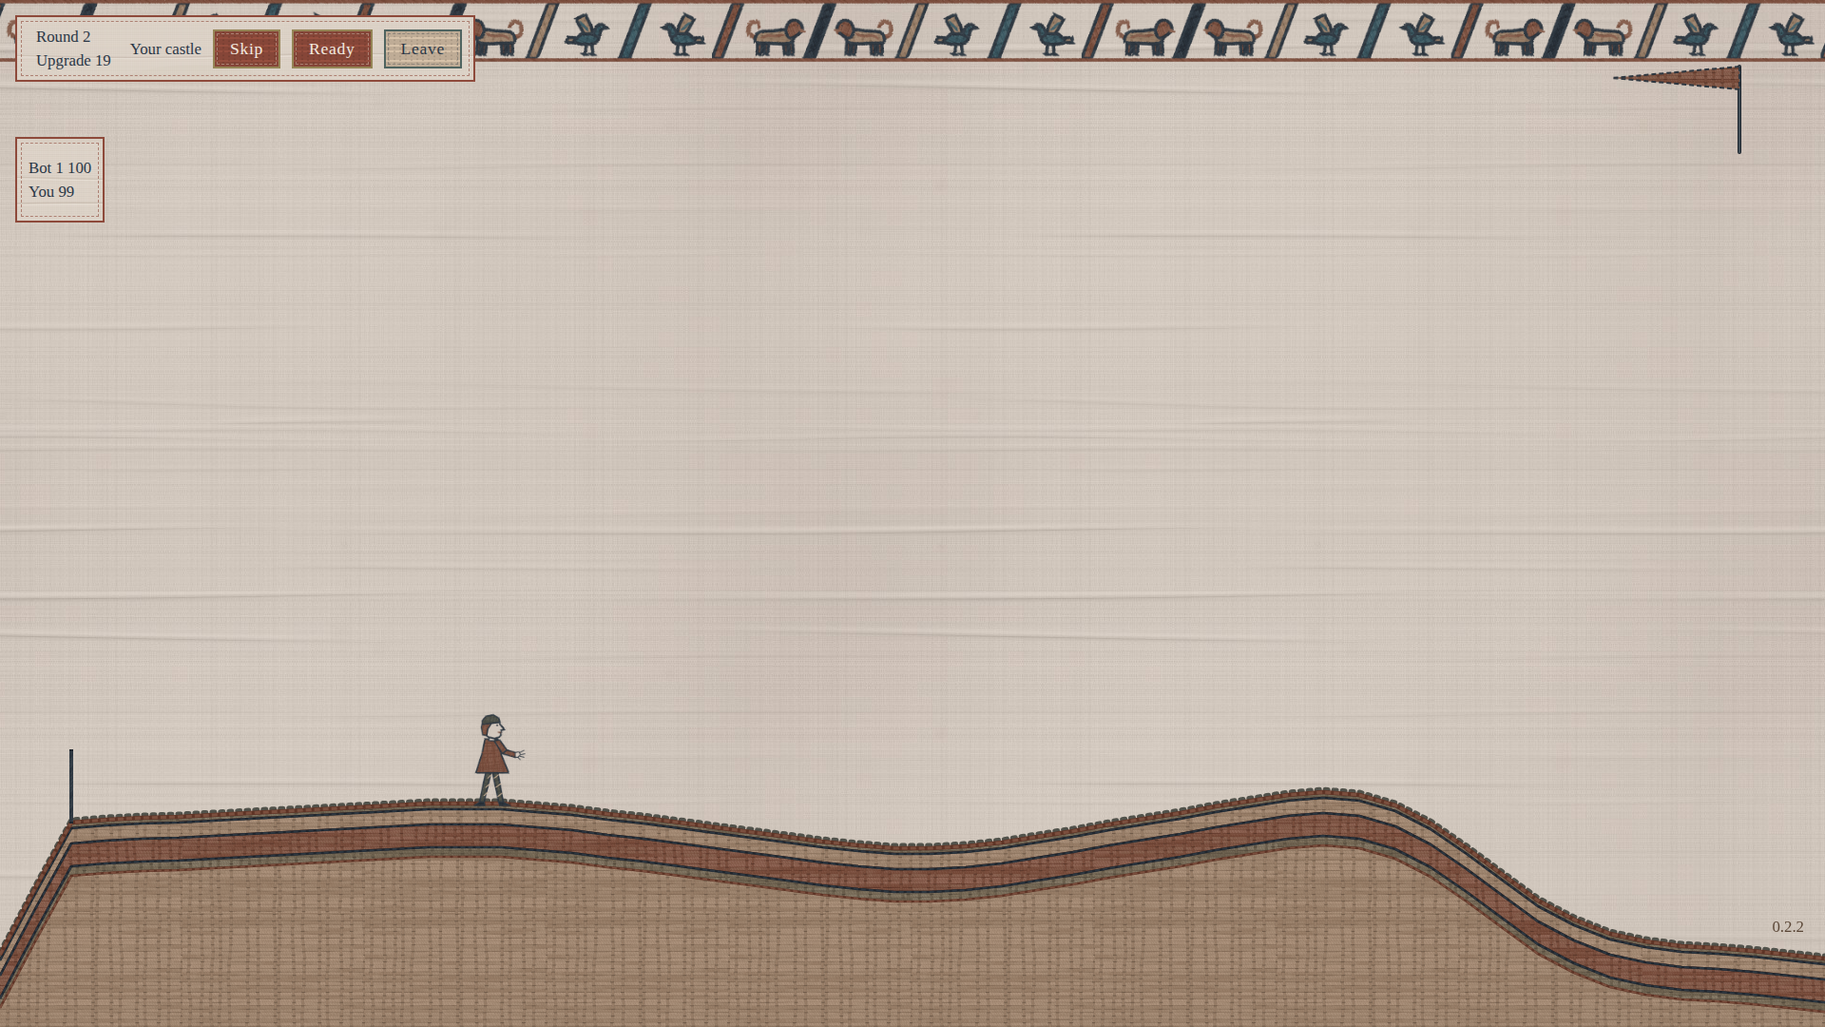
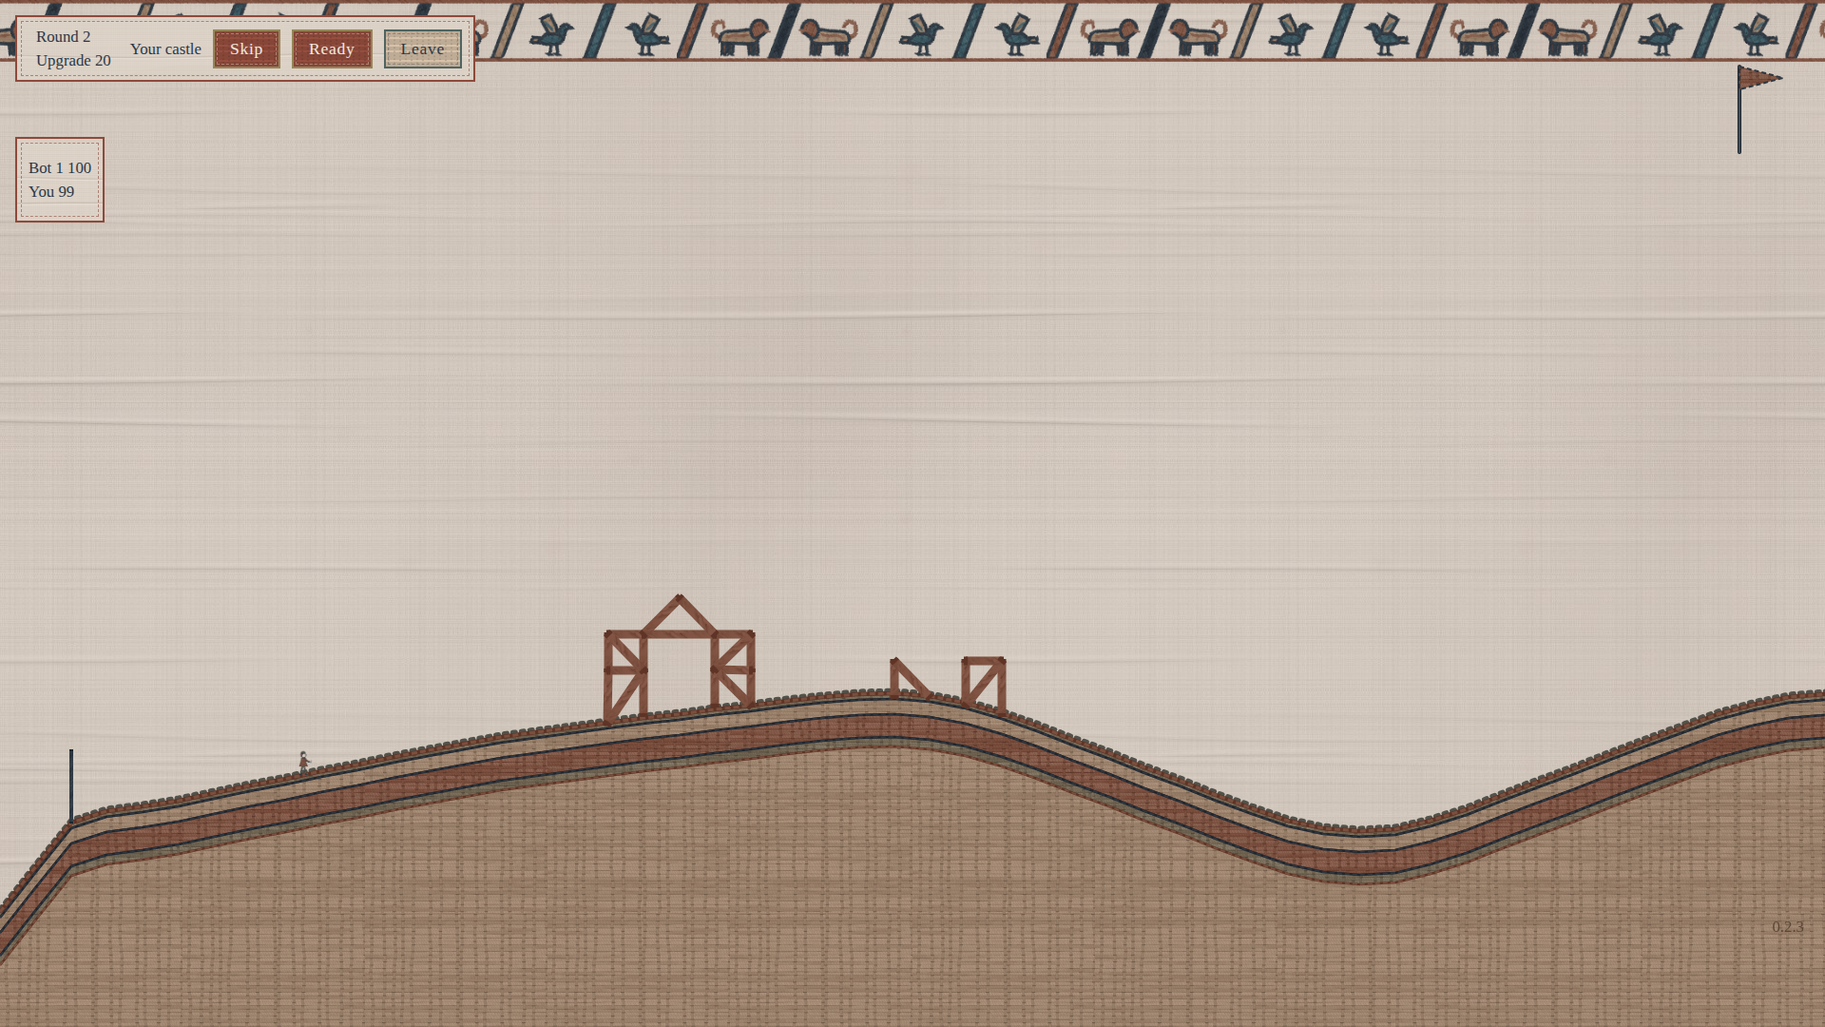
Royal figures drawn at world scale, fitting under cover (R1.2400-R1.2402)

Changed region(s): [[0.0, 0.5806, 1.0, 1.0], [0.2188, 0.0, 1.0, 0.0917], [0.0, 0.0, 0.1875, 0.0611]]

diff --git a/web/field-draw.js b/web/field-draw.js
@@ -130,7 +130,7 @@ function royals(g, f) {
     }
     const rank = K.costumes[r.rank] ? r.rank : "squire";
     const name = "fig-" + rank + (r.dead ? "-dead" : "");
-    const k = most(r.r * G.figure_tall_r, G.figure_min_px) / sprites[name].tall;
+    const k = r.tall / sprites[name].tall;
     if (r.dead) {
       // fallen: turned a quarter onto the floor
       g.save();
@@ -141,7 +141,7 @@ function royals(g, f) {
       g.restore();
       return;
     }
-    place(g, name, r.x, r.y + r.r * G.figure_foot_r, k, face);
+    place(g, name, r.x, r.y + r.r, k, face);
   });
 }
 

diff --git a/crates/core/src/ai/tests.rs b/crates/core/src/ai/tests.rs
@@ -570,3 +570,91 @@ fn ai_botplan_bot_waits_for_each_planned_shot() {
     }
     assert!(seen > 0);
 }
+
+/// Each royal of `p`: the head room from its feet (the body's bottom) to
+/// the underside of the lowest level beam over it, and the side room from
+/// its middle to the nearest upright beside it within that height.
+fn figure_room(play: &Play, p: u8) -> Vec<(Fx, Fx)> {
+    use crate::play::castle::BodyOwner;
+    use crate::play::tune::FIGURE_TALL;
+    let pl = &play.rules.players[p as usize];
+    let cw = play.castles[p as usize].world(pl, true);
+    let w = &cw.world;
+    let half = |s: &crate::physics::world::Segment| TUNE.material(s.material).thickness / 2;
+    cw.bodies
+        .iter()
+        .enumerate()
+        .filter(|(_, o)| matches!(o, BodyOwner::Royal(_)))
+        .map(|(i, _)| {
+            let b = &w.bodies[i];
+            let foot = b.pos.y - b.radius;
+            let ends = |s: &crate::physics::world::Segment| (w.nodes[s.a].pos, w.nodes[s.b].pos);
+            let head = w
+                .segments
+                .iter()
+                .filter(|s| !s.broken)
+                .filter_map(|s| {
+                    let (a, c) = ends(s);
+                    (a.y == c.y && a.x.min(c.x) < b.pos.x && b.pos.x < a.x.max(c.x) && a.y > b.pos.y)
+                        .then(|| a.y - half(s) - foot)
+                })
+                .min()
+                .unwrap_or(Fx::from_int(1_000));
+            let side = w
+                .segments
+                .iter()
+                .filter(|s| !s.broken)
+                .filter_map(|s| {
+                    let (a, c) = ends(s);
+                    (a.x == c.x && a.y.max(c.y) > foot && a.y.min(c.y) < foot + FIGURE_TALL)
+                        .then(|| (a.x - b.pos.x).abs() - half(s))
+                })
+                .min()
+                .unwrap_or(Fx::from_int(1_000));
+            (head, side)
+        })
+        .collect()
+}
+
+#[test]
+fn ai_bot_royal_figures_fit_under_their_cover() {
+    use super::build::bot_turn;
+    use crate::game::flow::Phase;
+    use crate::play::tune::{FIGURE_TALL, FIGURE_WIDE, HEAD_ROOM};
+    // the drawn figure fits the head room the cover rules allow (R1.2400)
+    assert!(FIGURE_TALL <= HEAD_ROOM);
+    for seed in 1u64..=3 {
+        let mut play = match_with(vec![Seat::Human, Seat::Bot(Difficulty::Normal)], seed);
+        let mut last = (0, Phase::Lobby);
+        let mut checked = 0;
+        let mut n = 0;
+        while play.rules.round <= 4 && play.rules.phase != Phase::Results {
+            let now = (play.rules.round, play.rules.phase);
+            if now != last && now.1 == Phase::Build {
+                for input in bot_turn(&play, 1) {
+                    let _ = play.apply(1, input);
+                }
+                for (head, side) in figure_room(&play, 1) {
+                    assert!(
+                        head >= FIGURE_TALL,
+                        "seed {seed} round {}: head room {head:?}",
+                        now.0
+                    );
+                    assert!(
+                        side + side >= FIGURE_WIDE,
+                        "seed {seed} round {}: side room {side:?}",
+                        now.0
+                    );
+                    checked += 1;
+                }
+            }
+            last = now;
+            let _ = play.apply(0, Input::Ready);
+            let _ = play.apply(1, Input::Ready);
+            play.tick();
+            n += 1;
+            assert!(n < 100_000);
+        }
+        assert!(checked >= 4, "seed {seed}: {checked} royals checked");
+    }
+}

diff --git a/crates/core/src/play/tune.rs b/crates/core/src/play/tune.rs
@@ -7,6 +7,20 @@ use crate::physics::Fx;
 pub const ROYAL_RADIUS: Fx = Fx::ratio(1, 4);
 pub const BUILDING_RADIUS: Fx = Fx::ratio(1, 2);
 
+/// Head room under cover (R1.2400): one floor height (a cell, the bots'
+/// `ai::tune::FLOOR_UNITS`) less half the thickest beam (stone) below the
+/// royal's feet and half above its head.
+pub const HEAD_ROOM: Fx = Fx::ratio(3, 4);
+/// A royal's figure as drawn, in cells: its feet on the bottom of the body
+/// circle, centered on it, at most this tall and this wide (the baked
+/// figures reach about 0.6 of their height with an arm out), so it stands
+/// under any floor above it (R1.2400).
+pub const FIGURE_TALL: Fx = Fx::ratio(11, 16);
+pub const FIGURE_WIDE: Fx = Fx::ratio(1, 2);
+/// The least a figure is drawn, in pixels, when the view is zoomed far out
+/// (the corner inset); never more than the head room at that zoom.
+pub const FIGURE_MIN_PX: i32 = 12;
+
 /// A point stands on a floor when it is within this of the floor's top,
 /// and on the ground within this of the ground (half a grid step).
 pub const STAND_TOLERANCE: Fx = Fx::ratio(1, 8);

diff --git a/crates/core/src/app/field.rs b/crates/core/src/app/field.rs
@@ -66,6 +66,14 @@ impl Camera {
         [x as i32, self.h - y as i32]
     }
 
+    /// A royal figure's drawn height: world scale, or at least
+    /// `FIGURE_MIN_PX` when zoomed far out, never above the head room.
+    pub fn figure_tall(&self) -> i32 {
+        use crate::play::tune::{FIGURE_MIN_PX, FIGURE_TALL, HEAD_ROOM};
+        self.len(FIGURE_TALL, 0)
+            .max(FIGURE_MIN_PX.min(self.len(HEAD_ROOM, 0)))
+    }
+
     /// A length in pixels, at least `min`.
     pub fn len(&self, l: Fx, min: i32) -> i32 {
         ((l * self.ppu).floor_int() as i32).max(min)
@@ -223,6 +231,9 @@ pub struct Figure {
     pub x: i32,
     pub y: i32,
     pub r: i32,
+    /// the figure's drawn height in pixels, feet on the body's bottom
+    /// (`play::tune::FIGURE_TALL`, R1.2400)
+    pub tall: i32,
     /// "squire", "knight", ... for the renderer's look
     pub rank: &'static str,
     #[serde(skip_serializing_if = "is_false")]

diff --git a/crates/core/src/app/sandbox.rs b/crates/core/src/app/sandbox.rs
@@ -944,6 +944,7 @@ impl Sandbox {
                     x: p[0],
                     y: p[1],
                     r: cam.len(b.radius, 3),
+                    tall: cam.figure_tall(),
                     rank: rank_name(k),
                     dead: !b.alive,
                 }

diff --git a/crates/core/src/app/arena.rs b/crates/core/src/app/arena.rs
@@ -1219,6 +1219,7 @@ impl Arena {
                     x: p[0],
                     y: p[1],
                     r: cam.len(b.radius, 3),
+                    tall: cam.figure_tall(),
                     rank,
                     dead: !b.alive,
                 }

diff --git a/SECOND-ORDER.md b/SECOND-ORDER.md
@@ -155,7 +155,7 @@ One row per assumption, surprise or open item. **Kind** is *divergence* (what wa
 | R1.1308 | divergence | Sandbox power | The sandbox's `POWER` 7 is now `sandbox::power()`, a level-1 match's power (`launch_power(LEVELS[0].shot_power_pct)`), so it throws like a real match | | `app/sandbox.rs`, test `sandbox_power_reaches_the_whole_level_one_plot` | done |
 | R1.1400 | divergence | Stitch helpers in tools | tools/look/stitch.js (first web/stitch.js, see R1.1406) is the production copy of notes/look/stitch/stitch.js, rewritten so every number comes from data/stitch.json (the page's no-numbers rule). The border band and stitched lettering stayed in the notes copy only; scene-v3.html uses the old copy for those two | Made in the tapestry renderer pass | `web/stitch.js`, `data/stitch.json` | done |
 | R1.1401 | divergence | Figures and huts as data | Royal figures (by rank) and producer huts are part lists in data/stitch.json, drawn by `parts()` in web/stitch.js, shared by the game and the v3 render. The frame's existing `rank` field was enough; no core change | Made in the tapestry renderer pass | `data/stitch.json` body, hut | done |
-| R1.1402 | divergence | Royals drawn larger than their body | A figure is 5 radii tall (at least 46 px) with its feet 1.25 radii below the body's center, so it reads in play; hits still use the core's circle | Made in the tapestry renderer pass | `data/stitch.json` game.figure_* | open |
+| R1.1402 | divergence | Royals drawn larger than their body | A figure is 5 radii tall (at least 46 px) with its feet 1.25 radii below the body's center, so it reads in play; hits still use the core's circle | Made in the tapestry renderer pass | `data/stitch.json` game.figure_* (replaced by R1.2400) | done |
 | R1.1403 | finding | First-frame hitch | Stitching every texture costs about 270 ms on the first frame of a view (and again when the zoom changes the size buckets); warm frames take 1-7 ms. Pre-warming the cache during the countdown would hide it | Made in the tapestry renderer pass | MEASUREMENTS.md | open |
 | R1.1404 | divergence | Trebuchet arm over the ground | The arm used to dip behind the ground band; the terrain is now a cached background layer, so the arm draws over it | Made in the tapestry renderer pass | `web/field-draw.js` | open |
 | R1.1405 | finding | Sky stays put in a moving view | The linen is cached at canvas size and does not scroll with the siege camera; terrain does | Made in the tapestry renderer pass | `web/field-draw.js` | open |
@@ -200,7 +200,7 @@ One row per assumption, surprise or open item. **Kind** is *divergence* (what wa
 | R1.1603 | finding | The page drew an A-frame, a stick arm and a weight bead | The core's `Engine` (app/field.rs, from `physics::pose`) now gives: wheels, base, uprights, brace, pivot, tip, short-arm end, the box corners on the hinge, the sling (tip, middle, pouch) and the loaded shot in the pouch. After release the arm rocks about straight up for 60 ticks while the counterweight sways (Verlet bobs), then a 30-tick winch takes it back to cocked. `Shooter.thrown` and `Sandbox.release_at` record the release for the follow-through. Proportions: long arm 4, short arm 4/3, box 1, sling 4, pivot 3 high (the arm is 5 times the box side) | Drawn by the new `web/treb-draw.js`, called from `field-draw.js` `engine()` (a three-line change) | `physics::trebuchet::pose`, `Engine::of`, `web/treb-draw.js` | open |
 | R1.1604 | finding | Tests that assumed the old swing | Several tests assumed the old timing: the arena whole-match script released 40 ticks into the swing (now a backward throw), the AI lone-royal test aimed at 12-25 cells (the sling cannot lob that short, and real plots start 112 cells out), and the aimer scanned release ticks only to 200 | Arena script now releases at 150 ticks. The AI test aims at the plot distances FAR-20, FAR and FAR+30. `RELEASE_SCAN_MAX` is now `SWING_END`. `launch_angle_order` compares raw values (the Fx product rounded equal slopes together). The online whole-match test needs 41,400 ticks. Not checked: bot difficulty and hit rates in real matches, and how a 4.3 s swing feels | `ai/tune.rs`, `app/arena/tests.rs`, `ai/tests.rs`, `play/online_tests.rs` | open |
 | R1.1700 | finding | Blank siege view (match screenshot) | Two causes. (1) The eased eye was set before the tick's step, so the siege's first tick kept the build view (the target castle, 127 units right of the trebuchet at 14) and glided in over about 30 ticks; online (`follow`) never moved the eye. (2) A short swing throws nearly straight up (to 137 units over a ground near 40) and the flight view rose with the ball, so the ground and trebuchet left the bottom: the plain linen in the shot | The eye now moves at the end of `after_ticks` (solo and online) and snaps to the target on a phase or round change. In flight the view widens to keep the ground in it, up to `CAM_FLY_TALL_W` 260 units (140 still lost the ground on play_match's near-vertical shot), and only then rises; while the widened view still holds the ball its left edge stays behind the trebuchet. Ground fill (stage 2): the earth under the ground line is now solid down to the screen's bottom (`ground_fill` tan in data/stitch.json), with contiguous bands olive, tan, terracotta, olive (0-6-22-46-56 px; the old 22-46 gap and the empty linen under 80 are gone). play_match's siege shot (Space, 85 ms, Space in ?fast) is always this near-vertical lob, so it shows the widest flight view, not an aimed shot. The eased eye lags a fast-rising ball by about 5 units, so a lob can sit just above the top edge while the view widens. Breaks: removing the snap fails the first-tick test only once a build tick has set the eye (the test ticks 10 build ticks first, as play does) | `Arena::move_eye`, `siege_camera`; tests `arena_the_first_siege_tick_shows_the_trebuchet_and_the_ground_under_it`, `arena_a_high_shot_widens_the_view_and_keeps_the_ground_in_it` | open |
-| R1.1900 | divergence | Figures did not read at play zoom (R1.1402; person: "closer but could be a bit more detailed") | Faces were small pale ovals and figures 5 radii tall (46 px minimum) | Heads redrawn after ref01/ref02: a larger profile face (long nose, chin, mouth) with a bold navy edge, a navy eye knot and brow, colored hair caps, the king's pointed beard, a mustache on the prince, a pointed nasal helm, bigger crowns with knotted tips, the king's scepter moved into his front hand so it shows. Stronger tunics with contrasting legs (king terracotta under navy, queen navy under terracotta, prince bluegreen with navy legs, princess bluegreen, squire terracotta with slate legs and a slate cap). Figures now 8 radii tall, at least 96 px, baked at 240 px. Hits still use the core's circle, so a figure stands well outside its body | `data/stitch.json` body, costumes, game.figure_*, bake.figure | open |
+| R1.1900 | divergence | Figures did not read at play zoom (R1.1402; person: "closer but could be a bit more detailed") | Faces were small pale ovals and figures 5 radii tall (46 px minimum) | Heads redrawn after ref01/ref02: a larger profile face (long nose, chin, mouth) with a bold navy edge, a navy eye knot and brow, colored hair caps, the king's pointed beard, a mustache on the prince, a pointed nasal helm, bigger crowns with knotted tips, the king's scepter moved into his front hand so it shows. Stronger tunics with contrasting legs (king terracotta under navy, queen navy under terracotta, prince bluegreen with navy legs, princess bluegreen, squire terracotta with slate legs and a slate cap). Figures now 8 radii tall, at least 96 px, baked at 240 px. Hits still use the core's circle, so a figure stands well outside its body | `data/stitch.json` body, costumes, game.figure_*, bake.figure (replaced by R1.2400) | done |
 | R1.1901 | divergence | Brief: a thin top border band with paired beasts and birds between slanted bars | The real borders (ref01, ref02) run top and bottom; only a top band was asked for | A baked tile (`border` in data/look/stitch/, 72 px tall, four bays of 150 units) with two rule lines, four slanted bars (terracotta, navy, tan, bluegreen), two tan lions with curled tails facing each other and two bluegreen birds with raised wings facing each other. The page lays it across the main view's top at 6% of the canvas height (`game.border_share`), behind everything else on the canvas, so the HUD, flag and shots draw over it; it scrolls with the cloth. Not in the inset. No bottom band: the ground fills the bottom | `data/stitch.json` border, `tools/look/bake.html`, `web/field-draw.js` background() | open |
 | R1.1902 | finding | Sky linen stayed put while terrain scrolled (R1.1405), and the 2048 px linen showed seams where it repeated | Its creases and broad tones ran off its edges, so every repeat had a hard edge | The core now gives `Frame.cloth`, where the world's origin falls on screen (`field::cloth_at`), and the page lays the linen and the border from it, so both move with the ground. The bake makes the linen seamless: on each axis a copy shifted by half is crossfaded under the original, so any screen width repeats it without an edge. Zoom does not scale the linen (the weave stays at screen pixels) | `field::cloth_at`, test `cloth_offset_moves_with_the_view`; `seamless()` in `tools/look/bake.html` | open |
 | R1.1903 | divergence | Brief item 4: scenery trees | Placed only in the open country between the pad and the gap, never in the castle plot (they would clutter building and could read as solid) nor in water | `Plot::trees()` (terrain/mod.rs) seeds them from the plot's seed with its own salt, 10 to 26 columns apart, three looks; computed on demand, not stored, so saves, hashes and the protocol are unchanged. `Frame.trees` gives each one's foot, height (5 cells, a little over the trebuchet; at least 8 px) and look; the page draws them behind the ground's edge. Two interlaced trunks and curling lobed leaves after ref02/ref07 | `terrain::tune::TREE_*`, `Plot::trees`, `field::tree_marks`, test `terrain_trees_stand_apart_in_open_country`; `data/stitch.json` tree, tree_looks | open |
@@ -222,6 +222,9 @@ One row per assumption, surprise or open item. **Kind** is *divergence* (what wa
 | R1.2302 | finding | Castles sold to nothing (seed 6 round 7: 17 segments to 1) | When no layout of the new size kept at least as many segments as stood, `plan_castle` returned an empty plan and `bot_turn` sold the whole castle. Now a plan keeps every standing segment it has no place for (sold only where it puts another material on the same spot), so a castle never shrinks, and an empty plan sells nothing | | `ai/build.rs` `plan_castle`, `bot_turn` | done |
 | R1.2303 | finding | Royals left on old, uncovered spots (seed 3 round 7) | Traced on seed 5 round 5 with the new plans, the same symptom as seed 3 round 7 (a royal off cover while the plan had a covered spot for it); seed 3 round 7 itself was not replayed on the old code: royals are matched to the plan's spots by worth, so a new, more valuable royal shifts everyone one place; each royal's new spot was another royal's current one, every move was refused for spacing, and the royals stayed where an older plan had them, uncovered once the castle changed. Now a royal already on one of the plan's spots keeps it, and the others take the rest by worth. Also the plan measures royal spacing as the match does (columns across, cells above local ground) and counts a spot covered when a segment passes over it, as the siege does | | `ai/build.rs` `bot_turn`, `apart`, `sheltered` | done |
 | R1.2304 | worklist | No screenshot of a hilly bot castle | The 50-minute box ran out after the core work; no shot was taken | The coordinator takes one with `scripts/play_match.py`'s scout shot on seed 3 | | open |
+| R1.2400 | divergence | Royal figures drawn at world scale (R1.1402, R1.1900; scout shot: 96 px figures over 35 px huts) | Cover counts any segment over a royal, at any height, so I took the head room as one floor height (a cell, the bots' floors and huts) less half the thickest beam (stone) above and below: 3/4 cell. Figures are now 11/16 cell tall (2.75 body radii) and at most 1/2 cell wide, feet on the body's bottom, centered on it; the frame carries each figure's height in pixels (`Figure.tall`). The 96 px minimum is gone: a 12 px minimum applies only when zoomed far out (the corner inset) and never above the head room at that zoom, so it never applies in the main view. The body circle is unchanged (radius 1/4), so it covers the figure's lower third (legs and tunic) rather than the head; I did not move the body | Readability at about 21 px in the scout view: the 240 px bake loses its detail; a smaller bake or taller floors would help | `play/tune.rs` HEAD_ROOM, FIGURE_TALL, FIGURE_WIDE, FIGURE_MIN_PX; `app/field.rs` `Camera::figure_tall`; `web/field-draw.js` `royals`; test `ai_bot_royal_figures_fit_under_their_cover` | done |
+| R1.2401 | decision | Hut posts kept at one cell | Measured on seeds 1-3, rounds 1-4: the least head room under any bot royal is 0.89 cell (huts and keep floors), side room 0.44 cell each way, so an 11/16 figure fits with room to spare; I did not raise the hut posts. Only level beams count as the roof: a hut's brace crosses the royal at half height, and the figure is drawn in front of it as a figure stands in front of a timber frame | | `ai/tests.rs` `figure_room` | done |
+| R1.2402 | finding | Break test: royal figure fits under cover | With FIGURE_TALL 15/16 the test fails (`FIGURE_TALL <= HEAD_ROOM`); caught by `break_tests.py`. Two older rows are rotted (their text is gone): "botai: castle royals keep spacing" (ai/build.rs) and "play: a shot that hits a royal kills it" (play/siege.rs) | Repair the two rotted rows | `tests/breaks.json` | open |
 | R1.2104 | finding | The sandbox's trebuchet | Still releases on whole ticks: `Sandbox::pump` gets no press time (left alone, the field agent works in that area) | Give it `press_part` the same way if the sandbox is meant to aim finely; done in R1.2202 | `app/sandbox.rs` | done |
 | R1.2200 | divergence | Brief: the siege view showed empty linen left of the world at siege start (trebuchet at x 14, far right of the screen) | No view was ever held inside the world. The aim view starts 6 units behind the trebuchet, but the flight view (left at the ball, the castle frame, or home) and the settled castle frame (centered on the castle) could start left of 0, and the eased eye eases its left edge and its zoom apart, so a mid-ease view swung past 0 too | `Camera::kept_in(right)` moves a view inside `0..world_right(plot)` and narrows one wider than the world (bottom kept). Applied to every siege target, the build view, the eased eye after each easing step, and the sandbox's target and eye. The aim view already puts the trebuchet a quarter in or less (6 of 24-44 units) | tests `arena_the_siege_view_never_shows_past_the_world_edges`, `camera_kept_in_never_shows_past_the_world_edges`; `app/field.rs` `kept_in`, `world_right` | open |
 | R1.2201 | divergence | R1.1800: the sandbox view jumps once the 0.4 s hold ends | The sandbox had no eased eye | `Sandbox` keeps an `eye` eased toward `camera_target` each tick with the match's `CAM_EASE`; a mode switch snaps it. `camera()` is the shown view, `camera_target()` where it heads (the old camera test now reads the target) | test `sandbox_view_eases_after_the_hold_instead_of_jumping`; `Sandbox::move_eye` | open |
